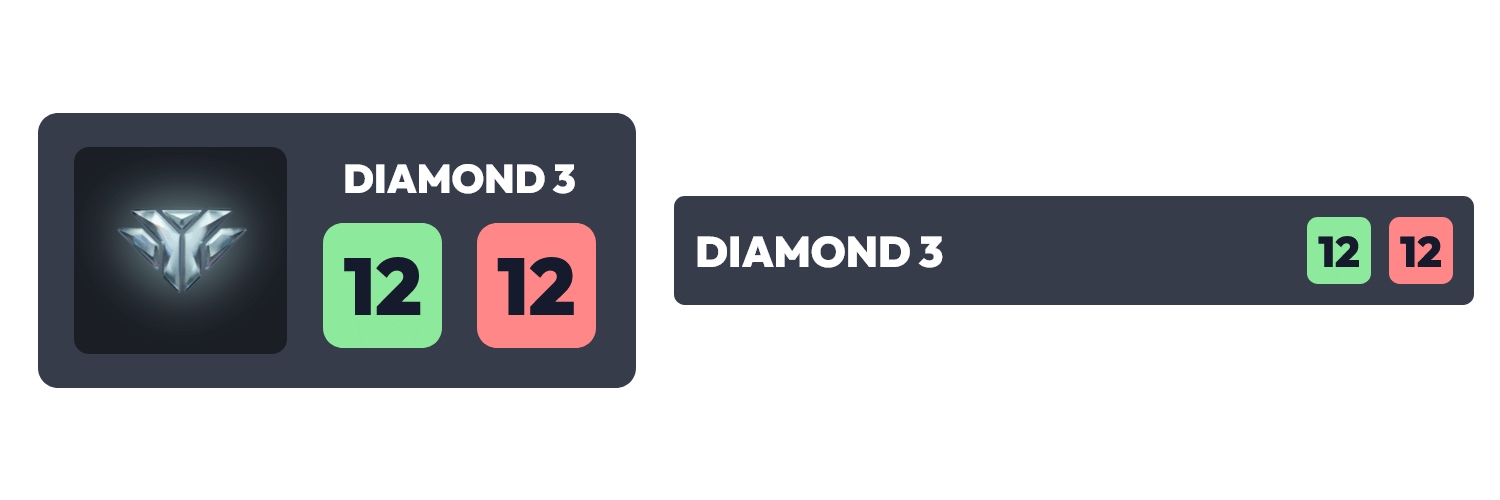
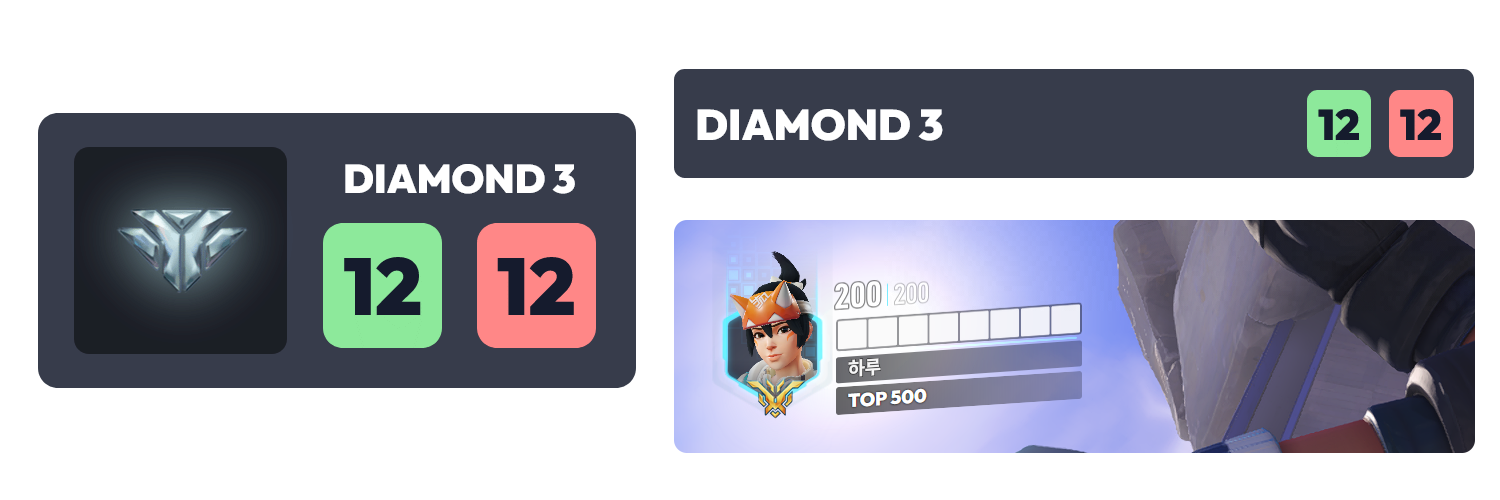
Added new skin

diff --git a/graphics/css/ui.css b/graphics/css/ui.css
@@ -1,0 +1,133 @@
+@font-face {
+    font-family: 'Outfit';
+    font-weight: 900;
+    src: url('Outfit-Black.woff2') format('woff2');
+}
+
+html, body {
+    display: flex;
+    justify-content: flex-start;
+    align-items: flex-end;
+    font: 900 10vw "Outfit", sans-serif;
+    color: #fff;
+    background-color: transparent;
+    margin: 0;
+    padding: 0;
+    width: 100vw;
+    height: 100vh;
+}
+
+.main {
+    overflow: hidden;
+}
+
+.box {
+    display: flex;
+    flex-direction: column;
+    overflow: hidden;
+    padding-left: 0;
+}
+
+.icon {
+    position: absolute;
+    left: -15px;
+    bottom: -50px;
+    transform: scale(.25);
+}
+
+#tier {
+    background-repeat: no-repeat;
+    background-size: auto;
+    background-image: url('../img/ow2tier.png');
+    width: 245px;
+    height: 234px;
+}
+
+.info {
+    position: absolute;
+    left: 168px;
+    bottom: 58px;
+    width: 222px;
+    background: linear-gradient(90deg, rgba(0,0,0,.6), rgba(0,0,0,.25));
+    border-radius: 3px;
+    padding: 2px 12px;
+    font-size: 14pt;
+    transform: skewY(-3.8deg);
+    text-shadow: 0 0 2px #000;
+}
+
+.bronze {
+    background-position: 0 0;
+}
+
+.silver {
+    background-position: -245px 0;
+}
+
+.gold {
+    background-position: -490px 0;
+}
+
+.platinum {
+    background-position: -735px 0;
+}
+
+.diamond {
+    background-position: 0 -234px;
+    animation: diamond 2s ease-in-out infinite alternate;
+}
+
+.master {
+    background-position: -245px -234px;
+    animation: master 2s ease-in-out infinite alternate;
+}
+
+.grandmaster {
+    background-position: -490px -234px;
+    animation: grandmaster 2s ease-in-out infinite alternate;
+}
+
+.topranker {
+    background-position: -735px -234px;
+    animation: topranker 2s ease-in-out infinite alternate;
+}
+
+.disable {
+    display: none;
+}
+
+@keyframes diamond {
+    0% {
+    	filter: drop-shadow(0 0 .5rem rgba(197,246,250,.5));
+    }
+    100% {
+    	filter: drop-shadow(0 0 .5rem rgba(197,246,250,.85));
+    }
+}
+
+@keyframes master {
+    0% {
+    	filter: drop-shadow(0 0 .5rem rgba(255,236,153,.5))
+    }
+    100% {
+    	filter: drop-shadow(0 0 .5rem rgba(255,236,153,.85))
+    }
+}
+
+@keyframes grandmaster {
+    0% {
+    	filter: drop-shadow(0 0 .5rem rgba(197,246,250,.5));
+    }
+    100% {
+    	filter: drop-shadow(0 0 .5rem rgba(197,246,250,.85));
+    }
+}
+
+@keyframes topranker {
+    0% {
+    	filter: drop-shadow(0 0 .5rem rgba(186,200,255,.5));
+    }
+    100% {
+    	filter: drop-shadow(0 0 .5rem rgba(186,200,255,.85));
+    }
+}

diff --git a/graphics/js/overwatch2_ui.js b/graphics/js/overwatch2_ui.js
@@ -1,0 +1,25 @@
+const tierName = nodecg.Replicant('tierName');
+const tierLevel = nodecg.Replicant('tierLevel');
+
+const tierIcon = document.getElementById("tier");
+
+// skillrate change
+tierName.on('change', newVal => {
+    const before = tierIcon.classList[0];
+    
+    tierIcon.classList.remove(before);
+    tierIcon.classList.add(newVal);
+    
+    if (newVal == 'topranker') {
+    	document.getElementById('tiername').innerText = "TOP 500";
+        document.getElementById('tierlevel').classList.add('disable');
+    }
+    else {
+    	document.getElementById('tiername').innerText = newVal.toUpperCase();
+        document.getElementById('tierlevel').classList.remove('disable');
+    }
+})
+
+tierLevel.on('change', newVal => {
+    document.getElementById('tierlevel').innerText = newVal;
+})

diff --git a/graphics/overwatch2_ui.html b/graphics/overwatch2_ui.html
@@ -1,0 +1,22 @@
+<!DOCTYPE html>
+<html lang="ko">
+<head>
+	<title>오버워치 점수 오버레이</title>
+	<meta charset="UTF-8">
+	<link rel="stylesheet" href="css/ui.css">
+</head>
+<body>
+	<div class="main">
+        <div class="icon">
+            <div id="tier"></div>
+        </div>
+        <div class="box">
+            <div class="info">
+                <span id="tiername"></span>
+                <span id="tierlevel"></span>
+            </div>
+        </div>
+	</div>
+    <script src="js/overwatch2_ui.js"></script>
+</body>
+</html>

diff --git a/README.md b/README.md
@@ -25,7 +25,12 @@ NodeCG 접속 후 Graphics 메뉴에서 링크를 복사합니다. 그리고 OBS
 
 ### 오버워치 2 경쟁전 전적 표시 오버레이
 ![오버워치 2 경쟁전 전적 표시 오버레이](readme/overwatch2_layout.png)
-Graphics 메뉴로 가면 `overwatch2.html`와 `overwatch2_minimal.html`파일을 볼 수 있습니다. `overwatch2.html`은 경쟁전 랭크 아이콘과 랭크 이름, 전적이 표시됩니다. `overwatch2_minimal.html`은 랭크 아이콘이 보이지 않는 대신 랭크 이름과 전적이 표시됩니다. 이제 Workspace 메뉴로 들어가면 오버워치 점수 패널이란 창을 볼 수 있고 여기서 각각 내용에 맞게 수정해 주시면 됩니다.
+Graphics 메뉴로 가면 `overwatch2.html`, `overwatch2_minimal.html`와 `overwatch2_ui.html` 파일을 볼 수 있습니다.
+* `overwatch2.html`은 경쟁전 랭크 아이콘과 랭크 이름, 전적이 표시됩니다.
+* `overwatch2_minimal.html`은 랭크 아이콘이 보이지 않는 대신 랭크 이름과 전적이 표시됩니다.
+* `overwatch2_ui.html`은 오버워치 2의 UI와 비슷하게 제작되어 랭크 아이콘과 랭크 이름이 표시됩니다.
+
+이제 Workspace 메뉴로 들어가면 오버워치 점수 패널이란 창을 볼 수 있고 여기서 각각 내용에 맞게 수정해 주시면 됩니다.
 
 ## 사용된 라이브러리
 * [Materialize CSS](https://materializecss.com)
